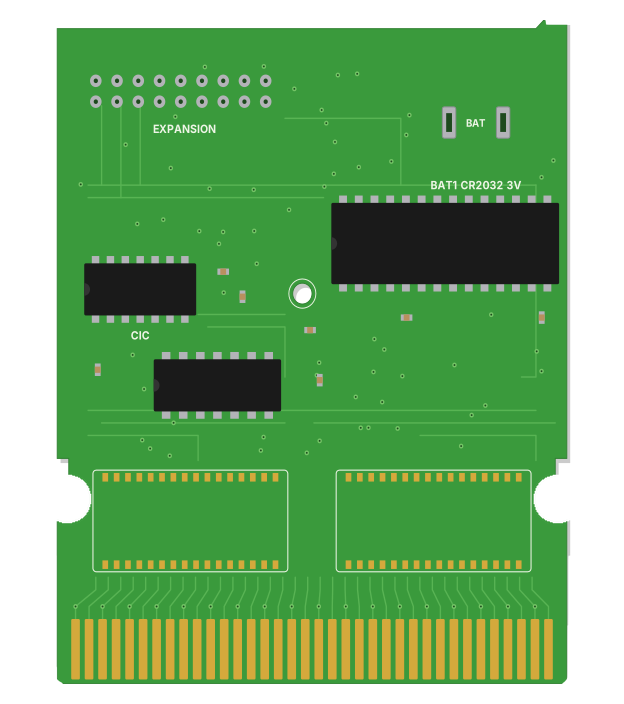
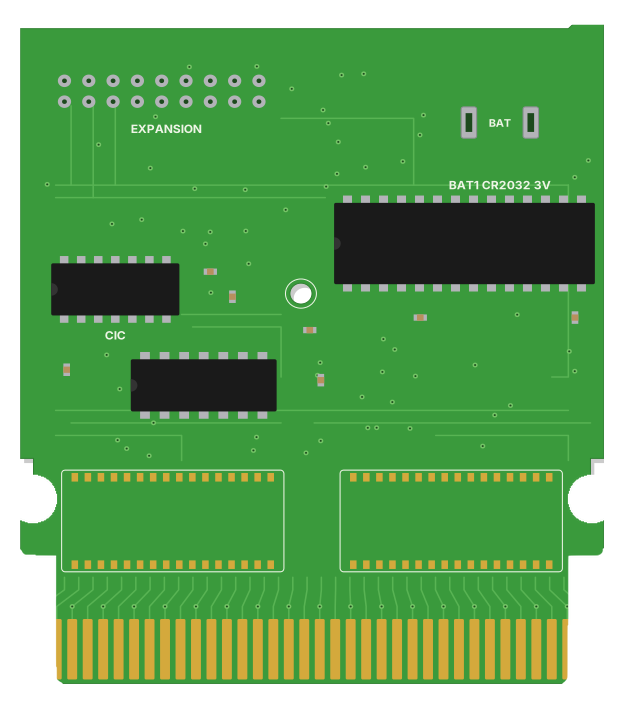
Bigger round batteries; NES side screw posts near the walls
The home carts' CR2032 is a plain round cell a quarter larger and stays
round on a stretched board. The NES shell's side posts move out to the walls
so its board fills the shell.

diff --git a/crates/slot-ui/src/home_art.rs b/crates/slot-ui/src/home_art.rs
@@ -75,8 +75,8 @@ macro_rules! art {
 // Printed by nes-megadrive/export_app.py.
 static ARTS: [MouldArt; 9] = [
     art!("nes", 352, (126, 0, 145, 239),
-        [(47.9, 236.5, 94.6, 48.0), (169.5, 236.5, 94.6, 48.0)],
-        (165.7, 101.4, 113.9, 40.7), [126, 126, 128], None),
+        [(32.2, 236.5, 108.3, 48.0), (171.5, 236.5, 108.3, 48.0)],
+        (167.1, 101.4, 130.4, 40.7), [126, 126, 128], None),
     art!("fc", 207, (22, 22, 269, 133),
         [(27.7, 98.3, 112.9, 54.9), (171.4, 98.3, 112.9, 54.9)],
         (69.3, 50.6, 140.2, 32.7), [196, 125, 8], None),
